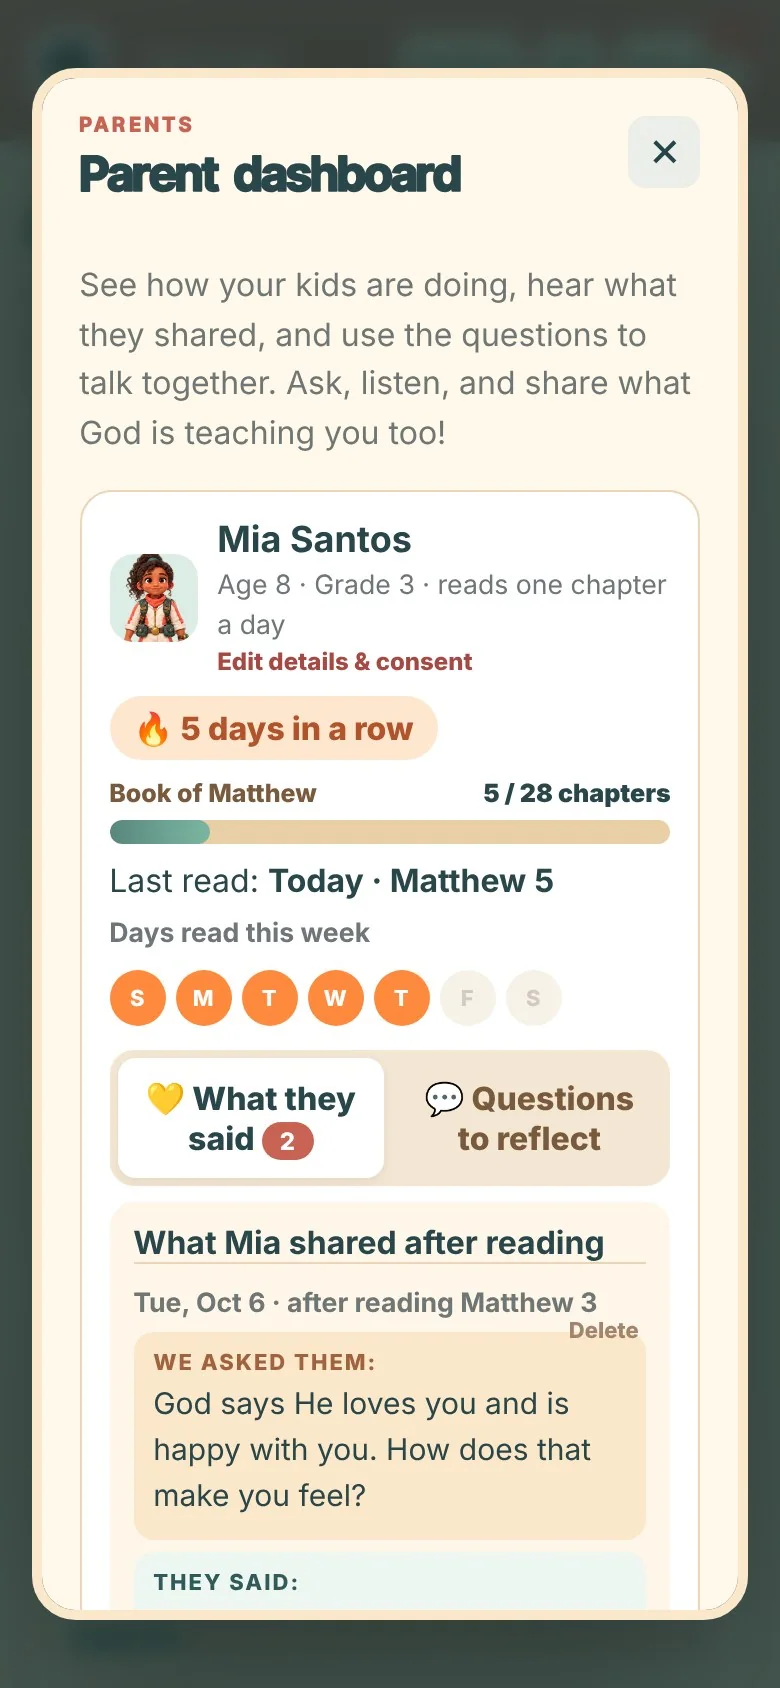
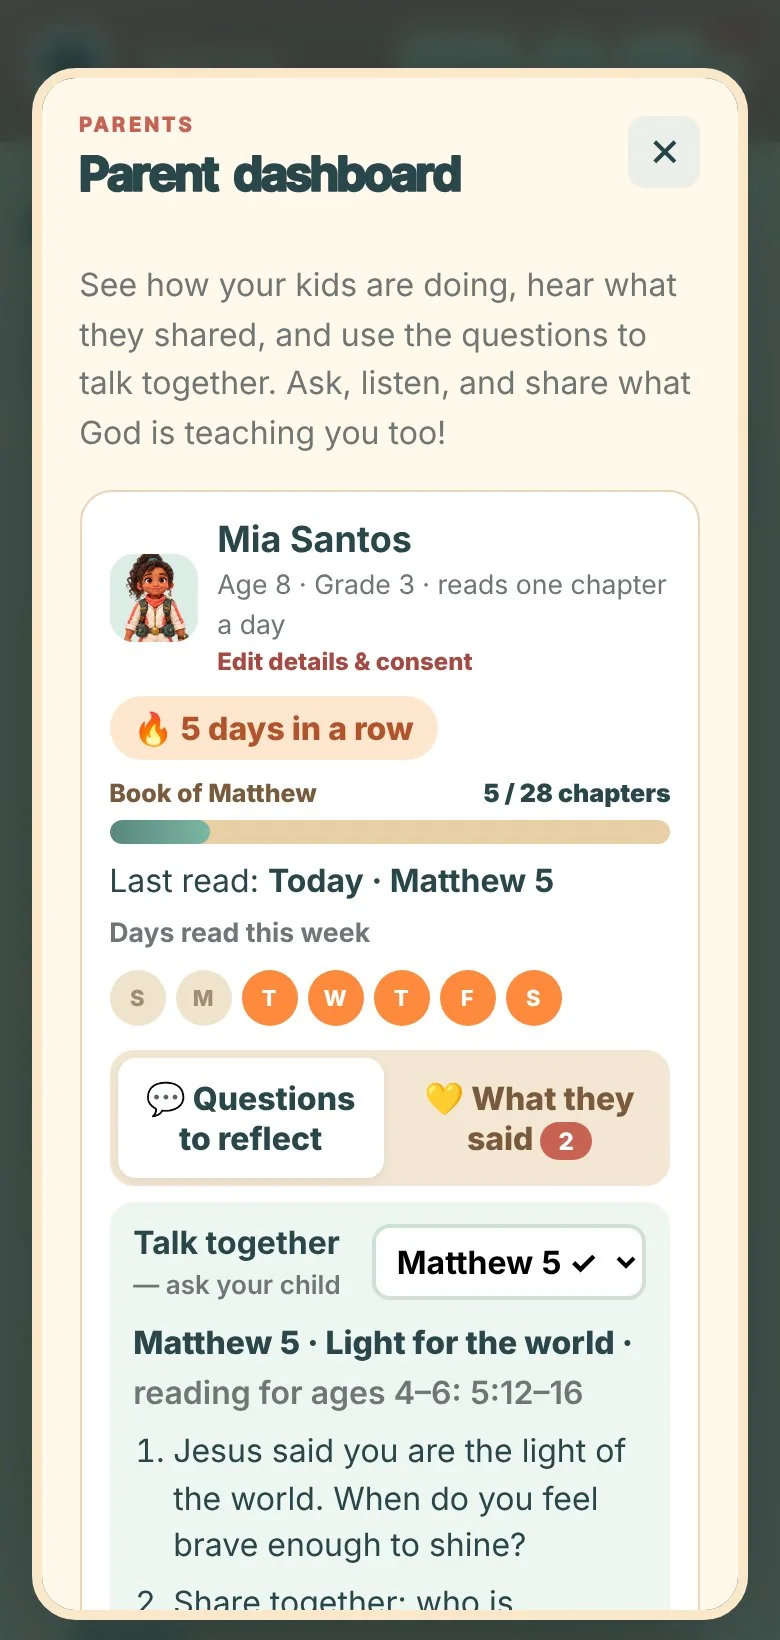
Guide page: welcome intro with kids, clearer Read/Answer/Fly, bigger callouts outside phones, why the questions
Claude-Session: https://claude.ai/code/session_013bSQizeYDjEt4kpuJ7XLpR

diff --git a/guide.html b/guide.html
@@ -4,8 +4,8 @@
 <meta charset="utf-8">
 <meta name="viewport" content="width=device-width, initial-scale=1, viewport-fit=cover">
 <meta name="theme-color" content="#0035e3">
-<title>How it works · Favor Kids Read My Bible</title>
-<meta name="description" content="How to read the Bible with your kids using Favor Kids Read My Bible 2026.">
+<title>Welcome parents · Read My Bible · Favor Kids Quest</title>
+<meta name="description" content="How to read the Bible with your kids using Read My Bible: Favor Kids Quest.">
 <link rel="icon" href="icon-192.png">
 <link rel="preconnect" href="https://fonts.googleapis.com">
 <link href="https://fonts.googleapis.com/css2?family=Barlow+Condensed:ital,wght@1,800;1,900&family=Fredoka:wght@400;500;600&family=Rubik+Mono+One&display=swap" rel="stylesheet">
@@ -16,14 +16,18 @@
   .wrap{max-width:640px;margin:0 auto;padding:0 18px}
   h1,h2{font-family:'Barlow Condensed',Impact,sans-serif;font-style:italic;font-weight:900;text-transform:uppercase;line-height:.9;margin:0}
   .lbl{font-family:'Rubik Mono One',sans-serif;font-size:11px;letter-spacing:.08em;color:var(--blue)}
-  header{background:var(--blue);color:#fff;padding:22px 0 26px}
+  header{background:var(--blue);color:#fff;padding:22px 0 0;overflow:hidden}
   header .top{display:flex;align-items:center;gap:12px}
   header .logo{background:#fff;border-radius:12px;padding:5px;width:52px;height:52px;display:grid;place-items:center;flex:none}
   header .logo img{width:42px}
   header .top b{font-family:'Rubik Mono One',sans-serif;font-size:13px;letter-spacing:.06em}
-  header h1{font-size:clamp(56px,16vw,92px);margin:18px 0 10px}
+  header .hi{font-family:'Rubik Mono One',sans-serif;font-size:13px;letter-spacing:.06em;color:var(--yellow);margin:20px 0 6px}
+  header h1{font-size:clamp(52px,15vw,88px);margin:0 0 12px}
   header h1 span{color:var(--yellow)}
   header p{font-size:18px;margin:0}
+  .kids{display:flex;justify-content:center;gap:4px;margin-top:40px;position:relative}
+  .kids:before{content:"";position:absolute;left:50%;bottom:-175px;width:340px;height:340px;transform:translateX(-50%);background:var(--yellow);clip-path:polygon(50% 0,59% 11%,72% 5%,75% 19%,89% 19%,86% 33%,99% 39%,90% 50%,99% 61%,86% 67%,89% 81%,75% 81%,72% 95%,59% 89%,50% 100%,41% 89%,28% 95%,25% 81%,11% 81%,14% 67%,1% 61%,10% 50%,1% 39%,14% 33%,11% 19%,25% 19%,28% 5%,41% 11%)}
+  .kids img{height:190px;position:relative}
   section{padding:28px 0 4px}
   section h2{font-size:38px;margin:6px 0 12px}
   .three{display:grid;grid-template-columns:repeat(3,1fr);gap:8px}
@@ -31,38 +35,42 @@
   .three b{display:block;font-family:'Barlow Condensed',Impact,sans-serif;font-style:italic;font-weight:900;font-size:27px;line-height:.95;margin-bottom:4px}
   .b1{background:var(--blue);color:#fff}.b2{background:var(--yellow)}.b3{background:var(--orange)}
   .note{background:var(--soft);border-radius:12px;padding:10px 14px;font-size:14.5px;margin-top:10px}
+  .heart{background:var(--yellow);border-radius:16px;padding:14px 16px;margin-top:22px}
+  .heart b{display:block;font-family:'Barlow Condensed',Impact,sans-serif;font-style:italic;font-weight:900;font-size:24px;text-transform:uppercase;line-height:1;margin-bottom:4px;color:var(--blue)}
   .steps{display:grid;gap:8px;margin:0;padding:0;list-style:none}
   .steps li{display:flex;gap:12px;align-items:flex-start;background:var(--soft);border-radius:14px;padding:12px 14px}
   .n{flex:none;font-family:'Barlow Condensed',Impact,sans-serif;font-style:italic;font-weight:900;font-size:30px;line-height:.9;color:var(--blue);width:22px}
   .link{display:inline-block;margin-top:4px;background:var(--blue);color:#fff;text-decoration:none;font-weight:600;border-radius:10px;padding:6px 12px;font-size:14px;word-break:break-all}
-  /* phone screenshots with arrows */
-  .phone{position:relative;margin:0;max-width:300px}
-  .shot{position:relative}
+  /* a phone screenshot with its labels and arrows OUTSIDE the phone */
+  .annot{position:relative;margin-top:14px}
+  .phone{margin:0;width:62%;position:relative}
   .phone img{display:block;width:100%;border:6px solid var(--ink);border-radius:26px}
-  .phone figcaption{font-size:14px;text-align:center;margin-top:8px;font-weight:600}
-  .ring{position:absolute;border:4px solid var(--orange);border-radius:999px;box-shadow:0 0 0 4px #fff8;pointer-events:none}
-  .tag{position:absolute;background:var(--orange);color:#fff;font-family:'Rubik Mono One',sans-serif;font-size:11px;letter-spacing:.04em;padding:6px 10px;border-radius:999px;white-space:nowrap}
-  .arrow{position:absolute;overflow:visible;pointer-events:none}
-  .center{display:flex;justify-content:center}
-  .flow{display:grid;gap:22px}
-  .step-h{display:flex;gap:10px;align-items:baseline;margin:0 0 8px}
+  .ring{position:absolute;border:5px solid var(--orange);border-radius:999px;box-shadow:0 0 0 3px #fff;pointer-events:none}
+  .call{position:absolute;left:58%;right:0;transform:translateY(-50%);display:flex;align-items:center}
+  .call svg{flex:none;width:44px;height:28px;overflow:visible}
+  .call span{background:var(--orange);color:#fff;font-family:'Rubik Mono One',sans-serif;font-size:13px;line-height:1.25;letter-spacing:.02em;padding:9px 11px;border-radius:12px;box-shadow:0 3px 0 #0002}
+  .step-h{display:flex;gap:10px;align-items:baseline;margin:22px 0 4px}
   .step-h .n{font-size:34px}
-  .step-h b{font-size:18px}
+  .step-h b{font-size:19px}
+  .sub{margin:0;color:var(--muted)}
   .tips{display:grid;grid-template-columns:1fr 1fr;gap:8px}
   .tips div{background:var(--soft);border-radius:12px;padding:10px 12px;font-size:14px;line-height:1.3}
   .tips b{display:block;font-size:15px}
-  .cta{display:inline-block;background:var(--yellow);color:var(--ink);font-weight:600;font-size:18px;text-decoration:none;padding:14px 22px;border-radius:14px;box-shadow:0 4px 0 #0002}
+  .cta{display:inline-block;position:relative;z-index:2;background:var(--yellow);color:var(--ink);font-weight:600;font-size:18px;text-decoration:none;padding:14px 22px;border-radius:14px;box-shadow:0 4px 0 #0002}
   footer{background:var(--blue);color:#fff;margin-top:34px;padding:26px 0 calc(26px + env(safe-area-inset-bottom));text-align:center}
   footer .lbl{color:#fff}
   footer p{margin:12px 0 0;font-size:14px;opacity:.9}
+  @media (max-width:420px){.three b{font-size:24px}.kids img{height:160px}.call span{font-size:12.5px;padding:9px 10px}.call svg{width:34px}}
 </style>
 </head>
 <body>
 <header>
   <div class="wrap">
-    <div class="top"><span class="logo"><img src="favor-kids-logo.webp" alt="Favor Kids"></span><b>FAVOR KIDS · FOR PARENTS</b></div>
-    <h1>Read my <span>Bible</span></h1>
-    <p>A free Bible reading game for ages 4–12. Together, we’re reading the Book of Matthew, one chapter a day for 28 days!</p>
+    <div class="top"><span class="logo"><img src="favor-kids-logo.webp" alt="Favor Kids"></span><b>FAVOR KIDS</b></div>
+    <div class="hi">WELCOME, PARENTS, TO</div>
+    <h1>Read my Bible: <span>Kids Quest</span></h1>
+    <p>For the next 28 days, your kids will read through the Book of Matthew! We’ve created a daily Bible reading and challenge to help them know God more, one chapter at a time.</p>
+    <div class="kids"><img src="guide/kid-girl.webp" alt=""><img src="guide/kid-boy2.webp" alt=""></div>
   </div>
 </header>
 
@@ -71,9 +79,9 @@
     <div class="lbl">WHAT KIDS DO EACH DAY</div>
     <h2>Read. Answer. Fly!</h2>
     <div class="three">
-      <div class="b1"><b>READ</b>One chapter. Ages 4–6: one verse.</div>
-      <div class="b2"><b>ANSWER</b>3 quick questions.</div>
-      <div class="b3"><b>FLY</b>The Sky Run game unlocks!</div>
+      <div class="b1"><b>READ</b>A short passage or the whole chapter.</div>
+      <div class="b2"><b>ANSWER</b>3 quick questions to make sure they understood.</div>
+      <div class="b3"><b>FLY</b>Play the Sky Run game!</div>
     </div>
     <p class="note">Every day they read, their <b>streak fire</b> grows, they unlock <b>new outfits</b>, and their <b>home</b> grows from a tent to a mansion. They can also send you a <b>voice message or prayer</b>.</p>
   </section>
@@ -87,51 +95,49 @@
       <li><span class="n">3</span><span>Fill in your child’s details, then the <b>parent section</b>.</span></li>
       <li><span class="n">4</span><span><b>Save it to your home screen.</b><br>iPhone: Share › Add to Home Screen<br>Android: ⋮ › Add to Home screen</span></li>
     </ol>
-    <div class="center" style="margin-top:16px">
-      <figure class="phone"><div class="shot"><img src="guide/s-landing.webp" alt="The first page of Read My Bible with the Start my adventure button">
+    <div class="annot">
+      <figure class="phone">
+        <img src="guide/s-landing.webp" alt="The first page of Read My Bible with the Start my adventure button">
         <span class="ring" style="left:3%;top:83.5%;width:55%;height:9%"></span>
-        <span class="tag" style="left:50%;top:77%">STEP 2: TAP HERE</span></div>
-        <figcaption>The first page you’ll see</figcaption></figure>
-    </div>
-  </section>
-
-  <section>
-    <div class="lbl">WHAT YOUR CHILD SEES</div>
-    <h2>Their home screen</h2>
-    <div class="center">
-      <figure class="phone"><div class="shot"><img src="guide/s-home.webp" alt="The kid's home screen with a 5-day streak fire and today's chapter">
-        <span class="tag" style="left:50%;top:22%;transform:translateX(-50%)">STREAK FIRE</span>
-        <span class="tag" style="left:58%;top:80%">TODAY’S CHAPTER</span></div>
-        <figcaption>Streak, today’s chapter, Sky Run, and their explorer</figcaption></figure>
+      </figure>
+      <div class="call" style="top:88%"><svg viewBox="0 0 44 28"><path d="M42 14 H8" stroke="#f95600" stroke-width="5" stroke-linecap="round"/><path d="M2 14 L14 5 L14 23 z" fill="#f95600"/></svg><span>STEP 2:<br>TAP HERE</span></div>
     </div>
   </section>
 
   <section>
     <div class="lbl">FOR PARENTS</div>
     <h2>Your Parents portal</h2>
-    <div class="flow">
-      <div>
-        <p class="step-h"><span class="n">1</span><b>Tap <u>Parents</u> at the top right</b></p>
-        <div class="center"><figure class="phone"><div class="shot"><img src="guide/s-home.webp" alt="The home screen with the Parents button circled">
-          <span class="ring" style="left:76%;top:1%;width:23%;height:6%"></span>
-          <svg class="arrow" style="left:46%;top:8%;width:36%;height:10%" viewBox="0 0 100 60" preserveAspectRatio="none"><path d="M5 55 Q 70 55 88 6" stroke="#f95600" stroke-width="6" fill="none" stroke-linecap="round"/><path d="M78 12 L89 2 L95 16 z" fill="#f95600"/></svg>
-          <span class="tag" style="left:12%;top:17%">TAP PARENTS</span></div></figure></div>
-      </div>
-      <div>
-        <p class="step-h"><span class="n">2</span><b>Make your 4-digit code</b></p>
-        <p style="margin:-4px 0 10px;color:var(--muted)">First time only. Keep it secret from your kids, and write it down!</p>
-        <div class="center"><figure class="phone"><div class="shot"><img src="guide/s-gate.webp" alt="The parent code screen">
-          <span class="ring" style="left:7%;top:64%;width:86%;height:10%"></span>
-          <span class="tag" style="left:44%;top:57%">TYPE YOUR CODE</span></div></figure></div>
-      </div>
-      <div>
-        <p class="step-h"><span class="n">3</span><b>See how they’re doing</b></p>
-        <p style="margin:-4px 0 10px;color:var(--muted)">Their progress and streak, plus two tabs: <b>What they said</b> (answers, prayers, voice messages) and <b>Questions to reflect</b> (2 questions per chapter to ask them).</p>
-        <div class="center"><figure class="phone"><div class="shot"><img src="guide/s-dash.webp" alt="The parent dashboard">
-          <span class="ring" style="left:6%;top:61%;width:88%;height:8%"></span>
-          <span class="tag" style="left:58%;top:55.5%">2 TABS FOR YOU</span></div></figure></div>
-      </div>
+
+    <p class="step-h"><span class="n">1</span><b>Tap <u>Parents</u> at the top right</b></p>
+    <div class="annot">
+      <figure class="phone">
+        <img src="guide/s-home.webp" alt="Your child's home screen with the Parents button circled">
+        <span class="ring" style="left:76%;top:1%;width:23%;height:6%"></span>
+      </figure>
+      <div class="call" style="top:4%"><svg viewBox="0 0 44 28"><path d="M42 14 H8" stroke="#f95600" stroke-width="5" stroke-linecap="round"/><path d="M2 14 L14 5 L14 23 z" fill="#f95600"/></svg><span>TAP<br>PARENTS</span></div>
     </div>
+
+    <p class="step-h"><span class="n">2</span><b>Make your 4-digit code</b></p>
+    <p class="sub">First time only. Keep it secret from your kids, and write it down!</p>
+    <div class="annot">
+      <figure class="phone">
+        <img src="guide/s-gate.webp" alt="The parent code screen">
+        <span class="ring" style="left:7%;top:64%;width:86%;height:10%"></span>
+      </figure>
+      <div class="call" style="top:69%"><svg viewBox="0 0 44 28"><path d="M42 14 H8" stroke="#f95600" stroke-width="5" stroke-linecap="round"/><path d="M2 14 L14 5 L14 23 z" fill="#f95600"/></svg><span>TYPE YOUR<br>CODE HERE</span></div>
+    </div>
+
+    <p class="step-h"><span class="n">3</span><b>See what your kids answered</b></p>
+    <p class="sub"><b>Questions to reflect:</b> 2 questions for each chapter to talk about together.<br><b>What they said:</b> their answers, prayers and voice messages for you.</p>
+    <div class="annot">
+      <figure class="phone">
+        <img src="guide/s-dash.webp" alt="The parent dashboard with the two tabs circled">
+        <span class="ring" style="left:6%;top:63%;width:88%;height:9%"></span>
+      </figure>
+      <div class="call" style="top:68%"><svg viewBox="0 0 44 28"><path d="M42 14 H8" stroke="#f95600" stroke-width="5" stroke-linecap="round"/><path d="M2 14 L14 5 L14 23 z" fill="#f95600"/></svg><span>2 TABS<br>FOR YOU</span></div>
+    </div>
+
+    <div class="heart"><b>Why the questions?</b>To help your kids process what they read, and so you can walk with them as they learn and understand the Bible.</div>
   </section>
 
   <section>
